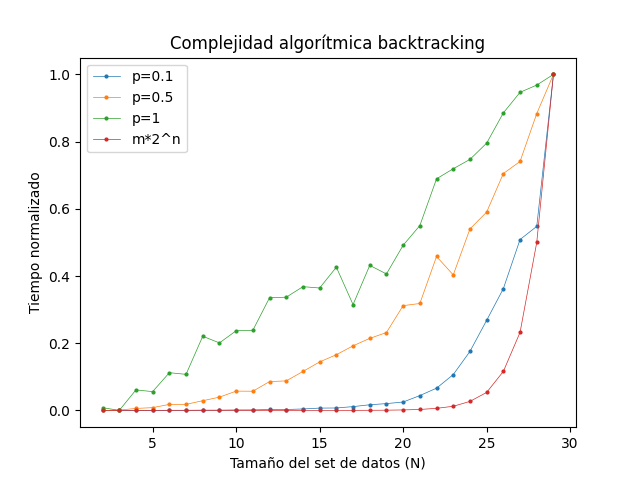
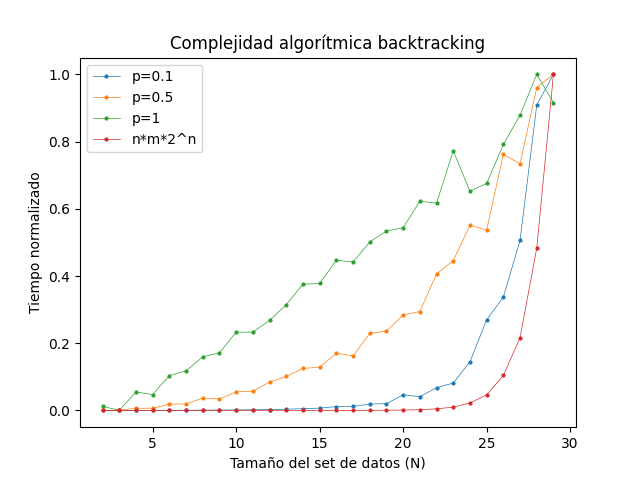
Update complejidad de backtracking

diff --git a/tp3/complejidad_algoritmica.py b/tp3/complejidad_algoritmica.py
@@ -49,7 +49,7 @@ def comparar_complejidad():
 
     t_bt = []
     t_gr = []
-    t_m_2_power_n = normalizar([(math.floor(n / 2)) * 2 ** n for n in N])
+    t_n_m_2_power_n = normalizar([n * (math.floor(n / 2)) * 2 ** n for n in N])
     t_n_power_2 = normalizar([(n ** 2) for n in N])
 
     for experimentos in sets:
@@ -79,8 +79,8 @@ def comparar_complejidad():
 
     generar_grafico(
         N,
-        [t for t in t_bt] + [t_m_2_power_n],
-        [f'p={i}' for i in probabilidades] + ['m*2^n'],
+        [t for t in t_bt] + [t_n_m_2_power_n],
+        [f'p={i}' for i in probabilidades] + ['n*m*2^n'],
         'Complejidad algorítmica backtracking',
         'complejidad_algoritmica_backtracking.png'
     )
